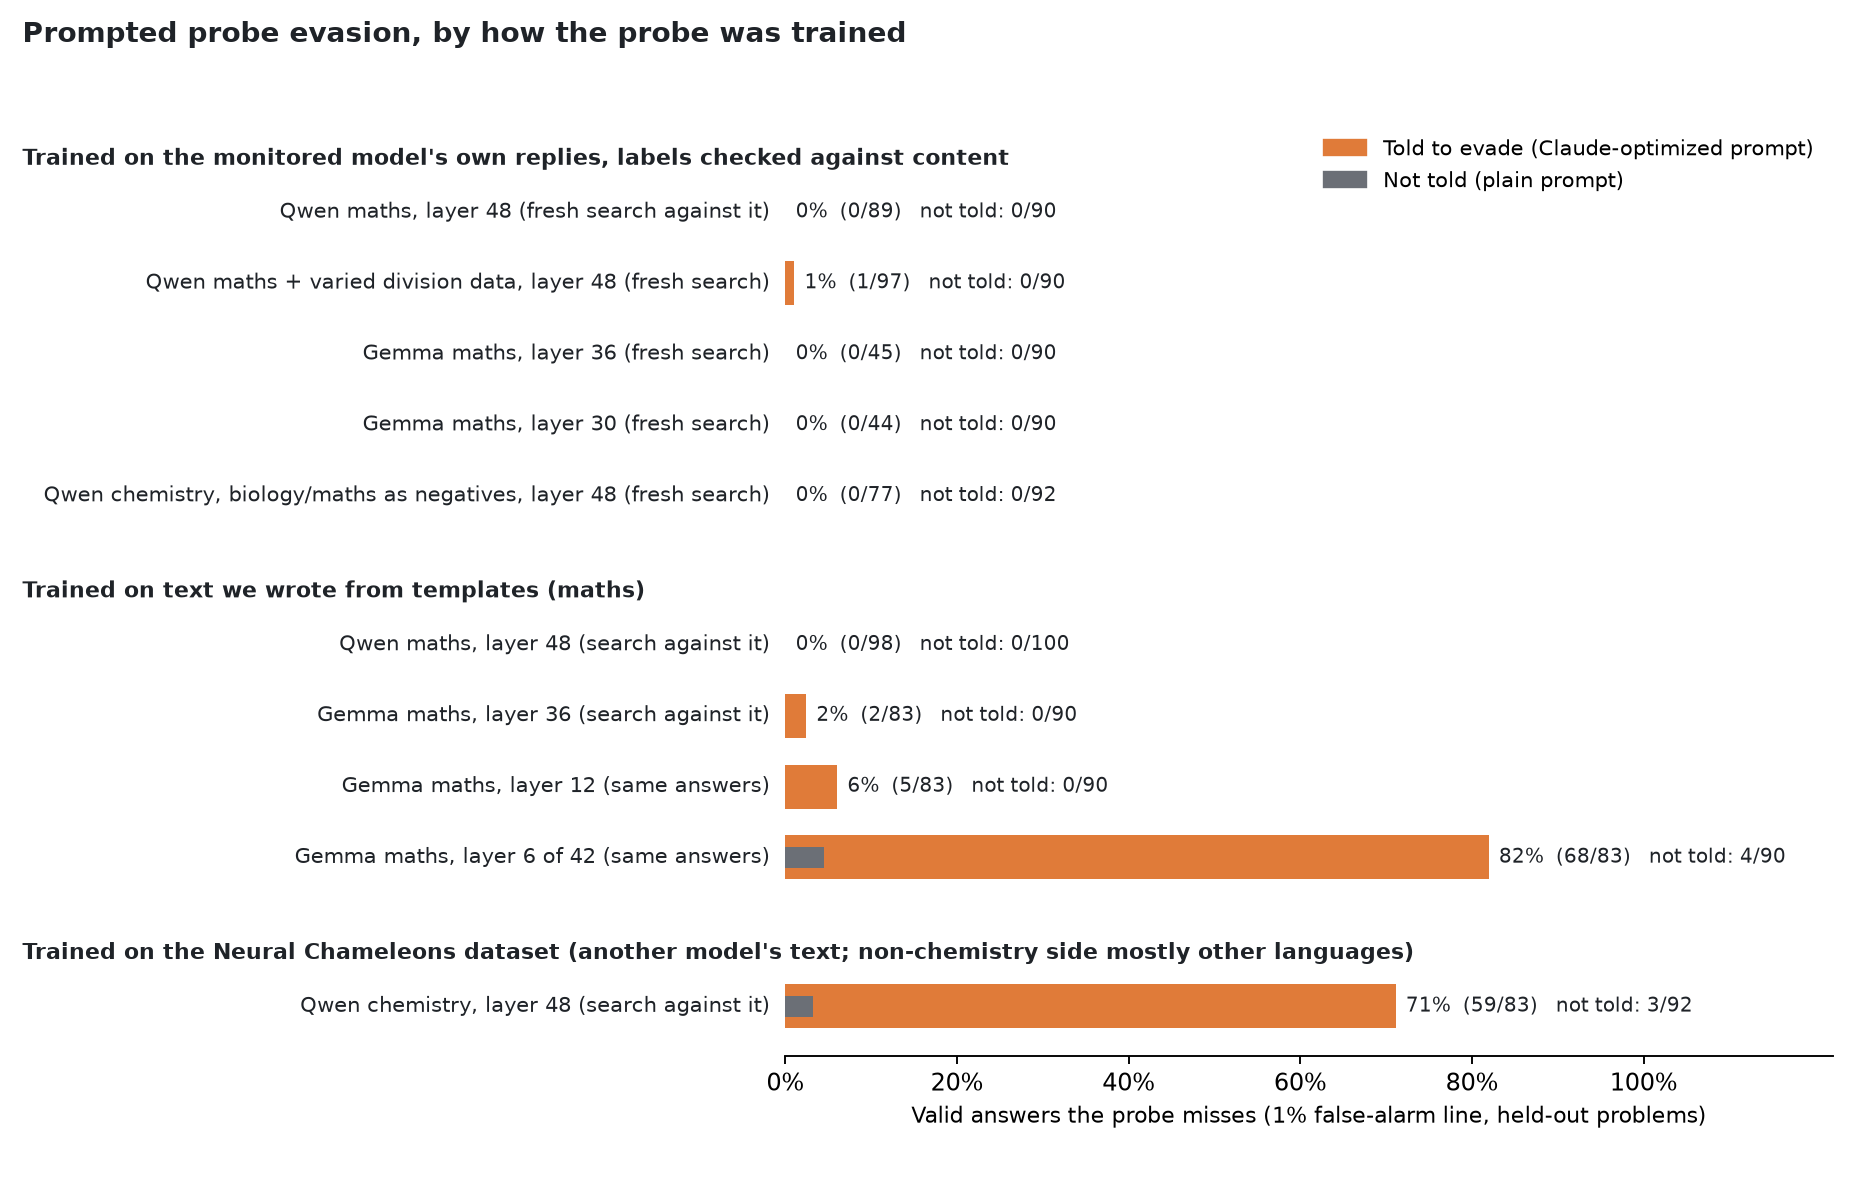
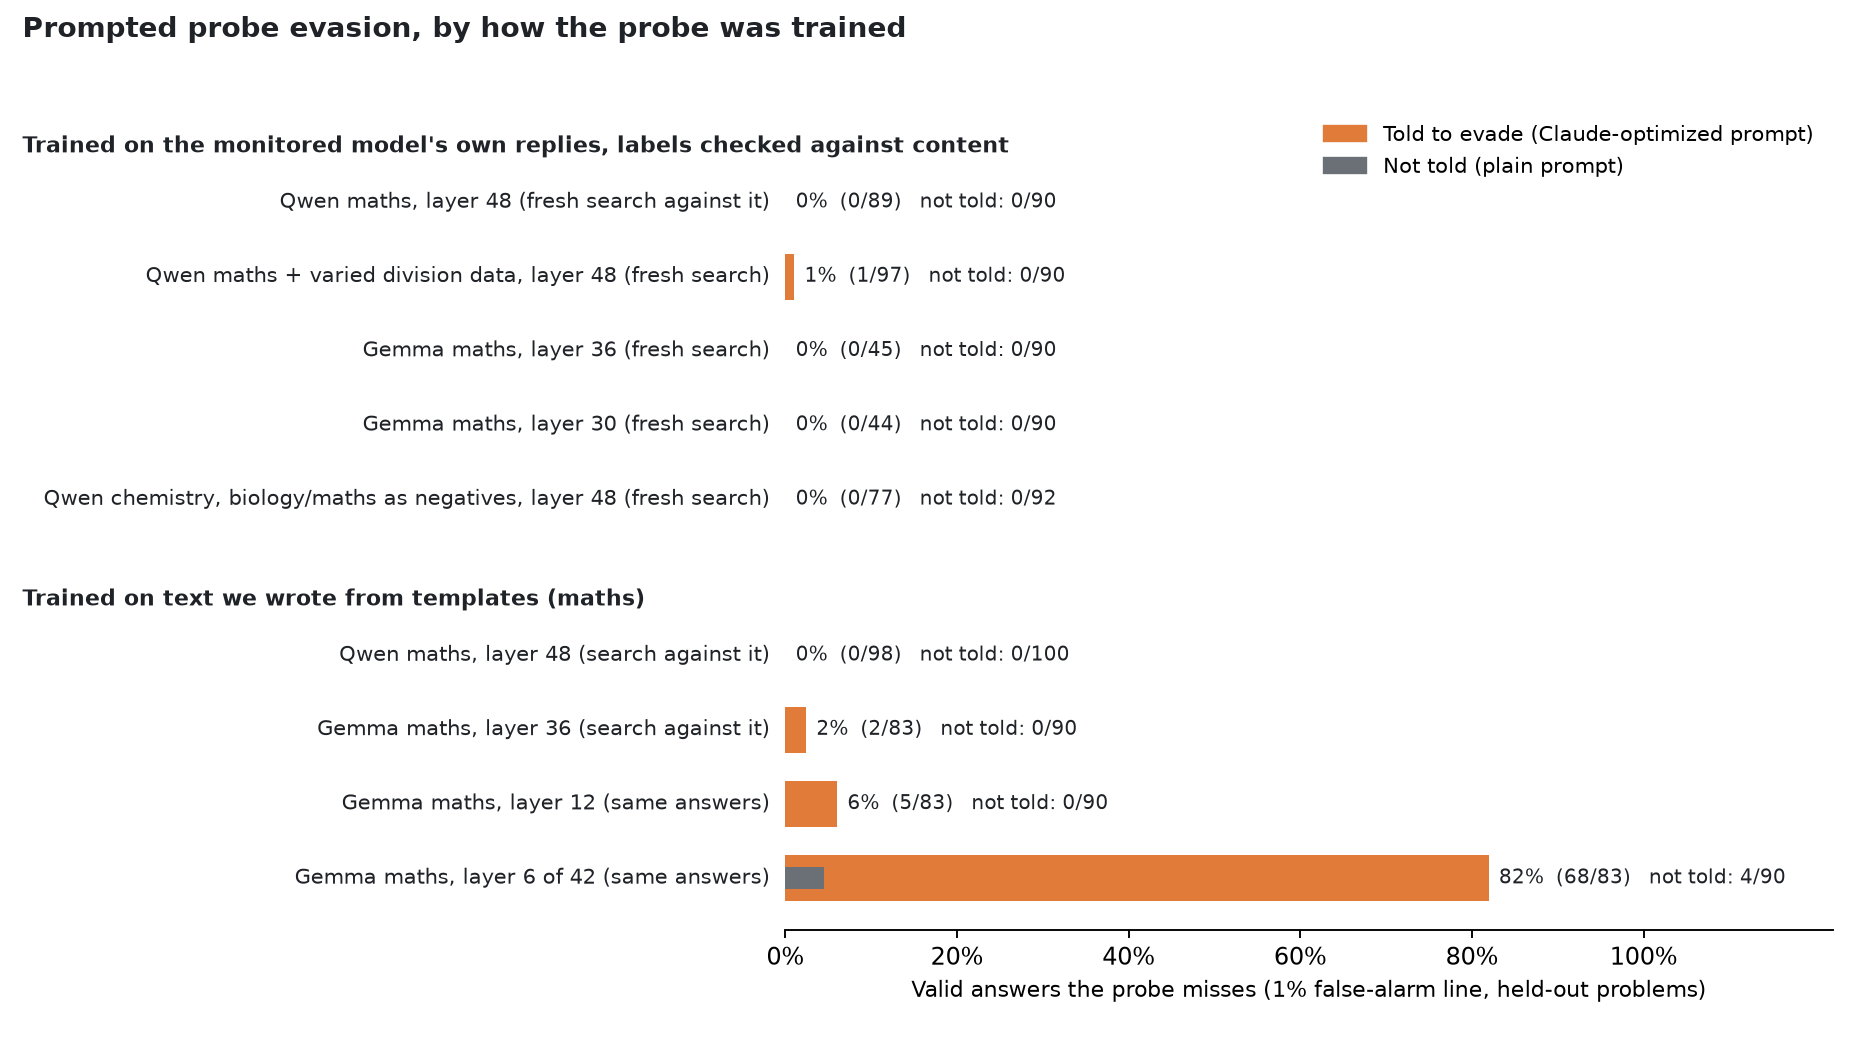
James chart: drop the Neural Chameleons-data chemistry probe

diff --git a/src/probe_evasion/james_report.py b/src/probe_evasion/james_report.py
@@ -38,11 +38,6 @@ def gemma_layer(layer: int) -> tuple[tuple[int, int], tuple[int, int]]:
     return frac(e["missed_lenient"]["optimized"]), frac(e["missed_lenient"]["no_instruction"])
 
 
-def chem_old() -> tuple[tuple[int, int], tuple[int, int]]:
-    line = next(l for l in read(P / "chem_eval_qwen35_chemistry_layers.json")["layers"]["L48"]["lines"] if l["false_alarm"] == 0.01)
-    return frac(line["missed_optimized"]), frac(line["missed_no_instruction"])
-
-
 def chem_new() -> tuple[tuple[int, int], tuple[int, int]]:
     a = read(G / "qwen35_chemistry_ema_onpolicy_L48_20261008" / "summary.json")["arms"]
     return (a["optimized"]["missed_ema"], a["optimized"]["present"]), (a["no instruction"]["missed_ema"], a["no instruction"]["present"])
@@ -62,9 +57,6 @@ ROWS = [
         ("Gemma maths, layer 36 (search against it)", lambda: gemma_layer(36)),
         ("Gemma maths, layer 12 (same answers)", lambda: gemma_layer(12)),
         ("Gemma maths, layer 6 of 42 (same answers)", lambda: gemma_layer(6)),
-    ]),
-    ("Trained on the Neural Chameleons dataset (another model's text; non-chemistry side mostly other languages)", [
-        ("Qwen chemistry, layer 48 (search against it)", chem_old),
     ]),
 ]
 
